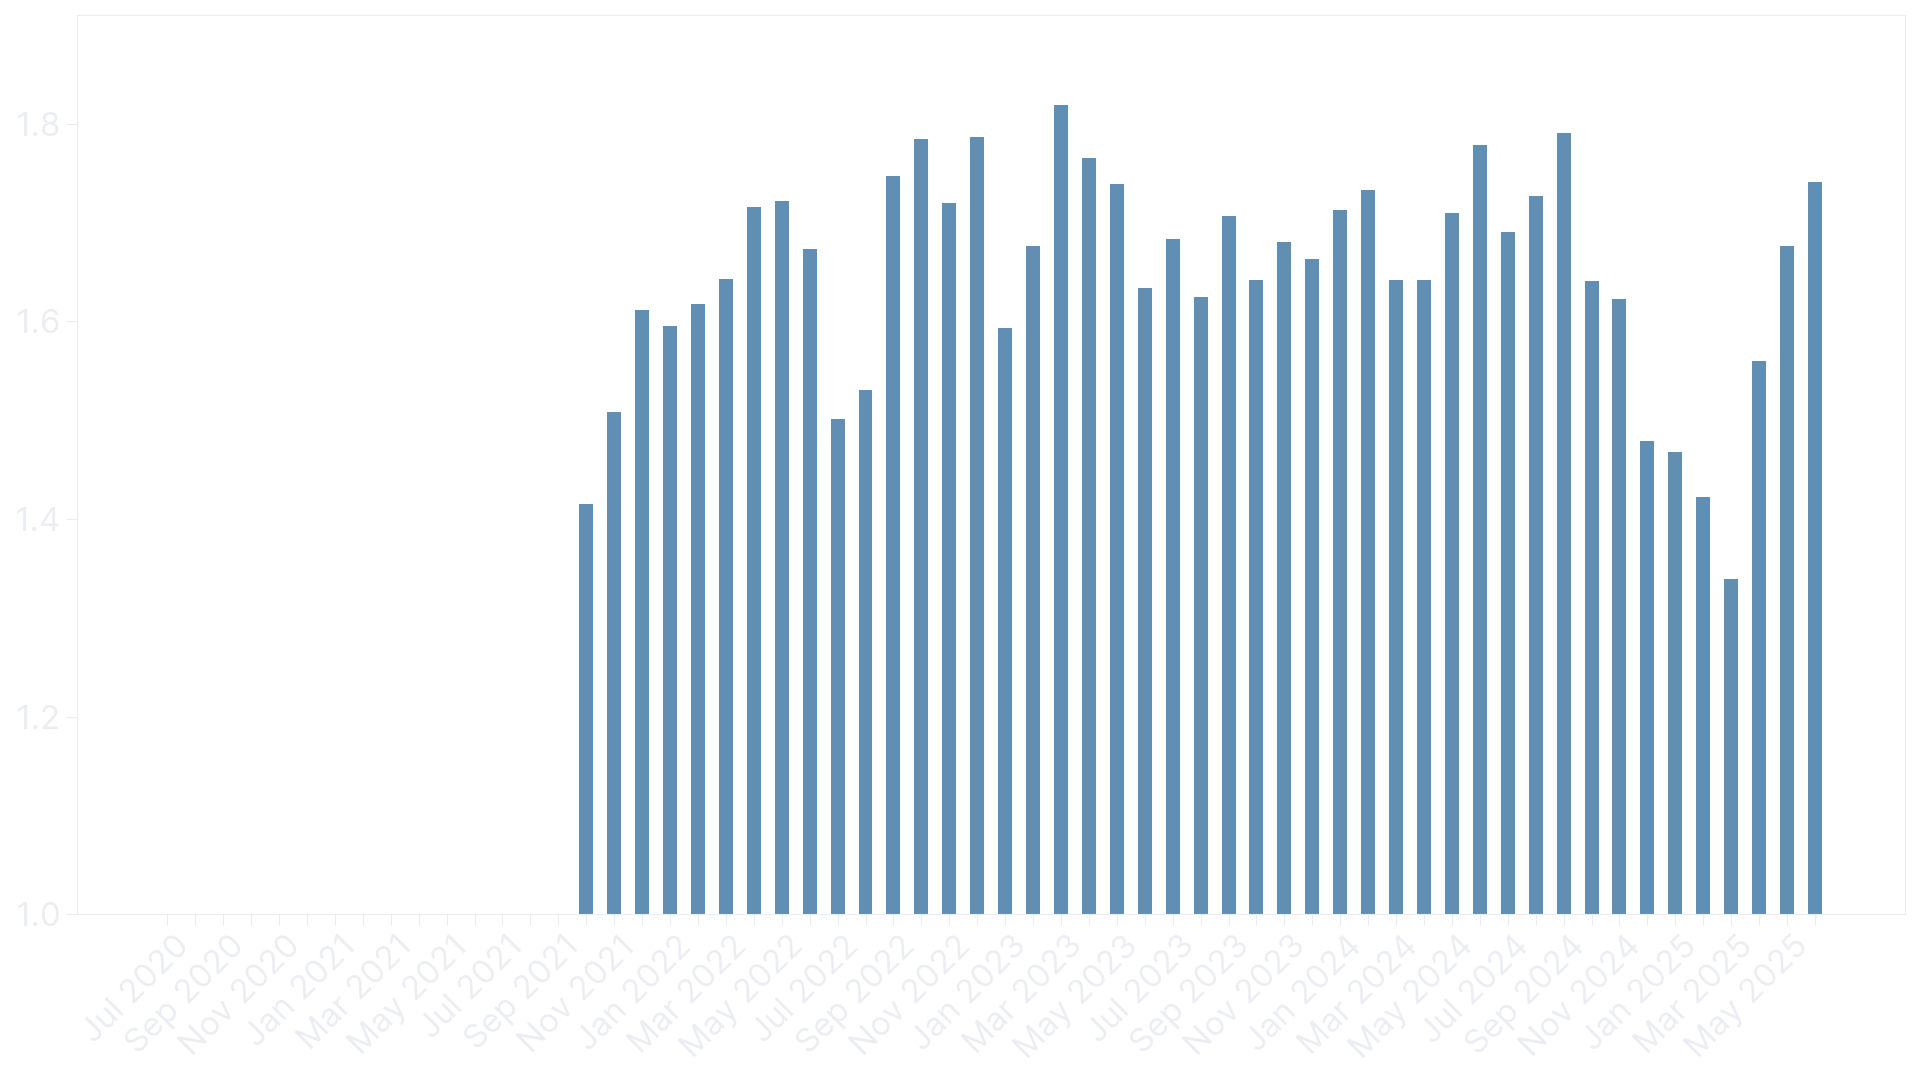
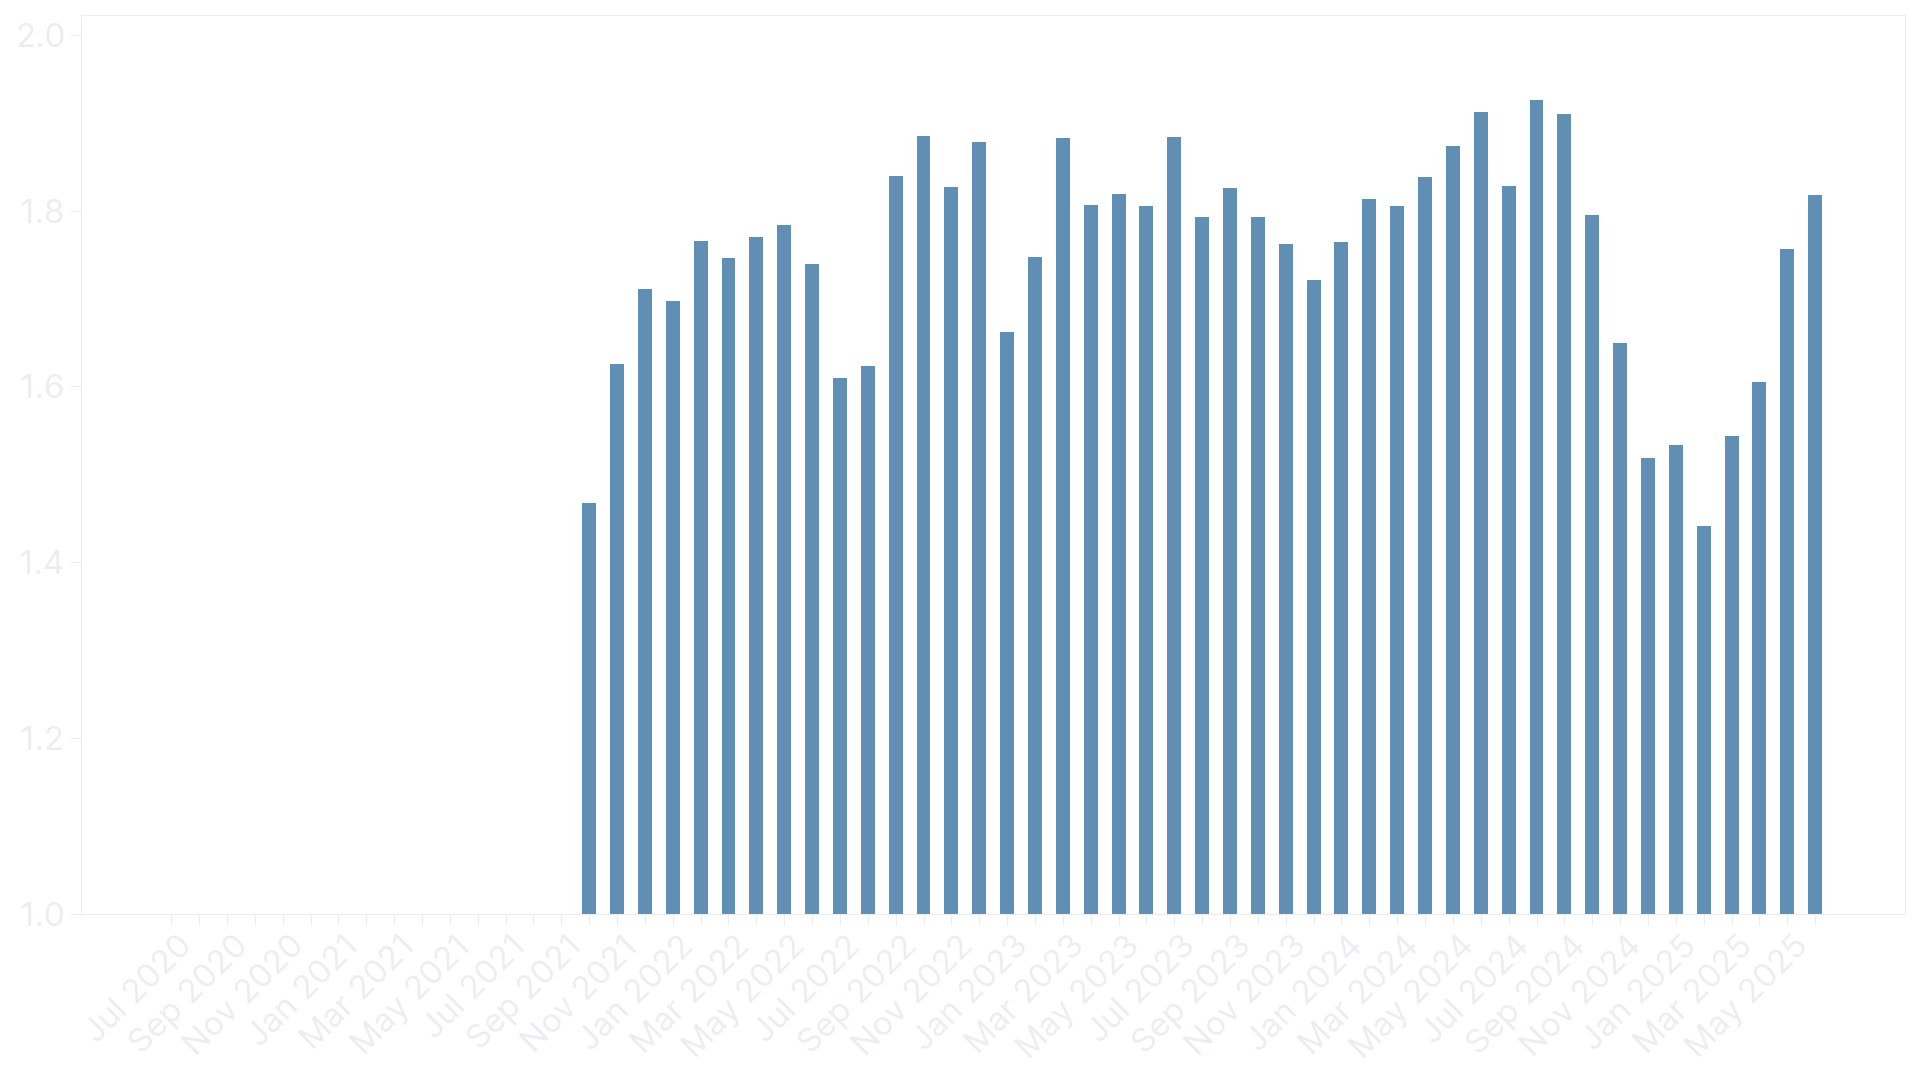
improve script, update plots

diff --git a/content/posts/hamburgers/src/evaluate.py b/content/posts/hamburgers/src/evaluate.py
@@ -1,11 +1,11 @@
 import argparse
-import dateutil.parser
 import glob
 import json
 import matplotlib.pyplot as plt
 import numpy as np
 import os
 from dateutil.relativedelta import relativedelta
+from dateutil.parser import parse
 from datetime import datetime, timezone
 
 
@@ -21,6 +21,7 @@ def main(args):
     grouped_activities = group_activities(activities)
     analyse_distance(grouped_activities)
     analyse_average_watts(grouped_activities)
+    analyse_weighted_average_watts(grouped_activities)
     analyse_average_heartrate(grouped_activities)
     analyse_efficiency_factor(grouped_activities)
 
@@ -34,9 +35,7 @@ def parse_activities(path):
                 activity["distance"] /= 1000  # Convert meters to kilometers
                 activity["moving_time"] /= 60 * 60  # Convert seconds to hours
                 activity["elapsed_time"] /= 60 * 60  # Convert seconds to hours
-                activity["start_date"] = dateutil.parser.isoparse(
-                    activity["start_date"]
-                )
+                activity["start_date"] = parse(activity["start_date"])
                 activities.append(activity)
     activities.sort(key=lambda activity: activity["start_date"])
     return activities
@@ -87,7 +86,9 @@ def analyse_general(activities):
             average_heartrate += activity["average_heartrate"] * activity["moving_time"]
             average_heartrate_time += activity["moving_time"]
 
+    print(f"Rides: {len(activities)}")
     print(f"Distance: {distance} km")
+    print(f"Average distance: {distance / len(activities)} km")
     print(f"Moving time: {moving_time} h")
     print(f"Elapsed time: {elapsed_time} h")
     print(f"Average watts: {average_watts / average_watts_time} W")
@@ -188,6 +189,30 @@ def analyse_average_watts(grouped_activities):
     plt.savefig("../img/watts.png", dpi=plot_dpi, transparent=True)
 
 
+def analyse_weighted_average_watts(grouped_activities):
+    values = np.zeros(len(grouped_activities))
+    for i, activities in enumerate(grouped_activities.values()):
+        weighted_average_watts_time = 0
+        for activity in activities:
+            if activity["device_watts"]:
+                values[i] += (
+                    activity["weighted_average_watts"] * activity["moving_time"]
+                )
+                weighted_average_watts_time += activity["moving_time"]
+        if weighted_average_watts_time > 0:
+            values[i] /= weighted_average_watts_time
+
+    _, axes = plt.subplots(figsize=plot_size)
+    for i, label in enumerate(grouped_activities.keys()):
+        axes.bar(label, values[i], 0.5, bottom=0, color=color_brand_3)
+
+    set_axes_style(axes)
+    axes.set_ylim(bottom=100)
+
+    plt.tight_layout()
+    plt.savefig("../img/weighted-watts.png", dpi=plot_dpi, transparent=True)
+
+
 def analyse_average_heartrate(grouped_activities):
     values = np.zeros(len(grouped_activities))
     for i, activities in enumerate(grouped_activities.values()):
@@ -217,7 +242,7 @@ def analyse_efficiency_factor(grouped_activities):
         for activity in activities:
             if activity["device_watts"] and activity["has_heartrate"]:
                 values[i] += (
-                    activity["average_watts"] / activity["average_heartrate"]
+                    activity["weighted_average_watts"] / activity["average_heartrate"]
                 ) * activity["moving_time"]
                 efficiency_factor_time += activity["moving_time"]
         if efficiency_factor_time > 0:
